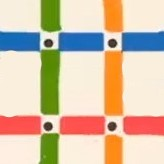
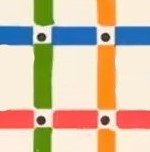
salmon

diff --git a/_sass/minimal-mistakes/_navigation.scss b/_sass/minimal-mistakes/_navigation.scss
@@ -501,7 +501,7 @@
   display: block;
   padding-left: 2em;
   list-style-type: none;
-  margin: 0.5rem 0;
+  margin: 0.25rem 0;
   padding: .25rem 1rem .25rem 1rem;
   font-family: $sans-serif;
   font-size: $type-size-5;
